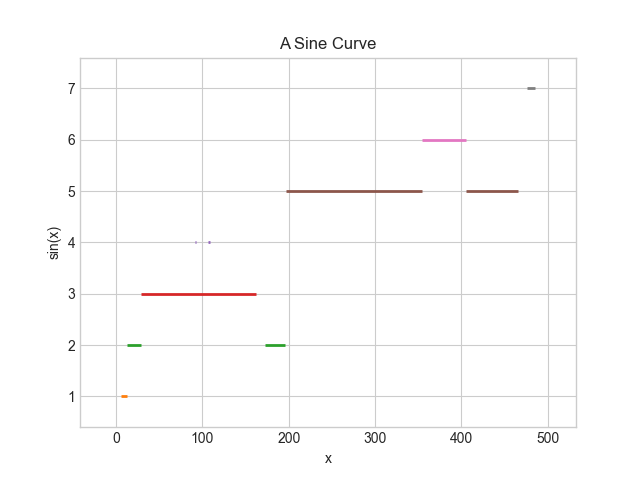
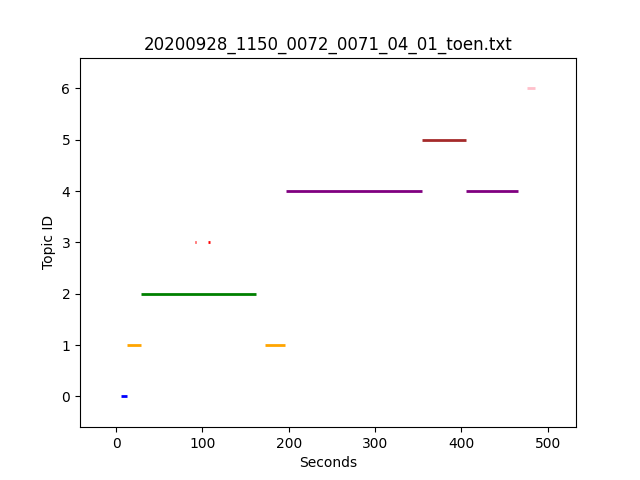
adding visualization script

diff --git a/analysing_topics/visualization_script.py b/analysing_topics/visualization_script.py
@@ -1,41 +1,36 @@
 #!/usr/bin/python3
 # This script visualize RTTM file with matplotlib
-# "rttm: <type> <file-id> <channel-id> <begin-time> <duration> <NA> <NA> <speaker> <conf>"
-# '<file-id> <start-time> <end-time> <speaker> <type>'
+# "rttm: <type> <reco-id> <channel-id> <begin-time> <duration> <NA> <NA> <speaker> <conf>"
+# '<reco-id> <start-time> <end-time> <speaker> <type>'
 
 import matplotlib
 matplotlib.use('Agg')
-import numpy as np
 from datetime import datetime
 from datetime import timedelta
 import matplotlib.pyplot as plt
+from collections import namedtuple
 
 def main():
-    rttm_filename = '/Users/ashisharora/Desktop/root/corpora/TDCorpus/topic_text.txt'
+    '<reco-id> <start-time> <end-time> <topic> <type>'
+    topic_text = '/Users/ashisharora/Desktop/root/corpora/TDCorpus/topic_text.txt'
+    text_file_handle = open(topic_text, 'r', encoding='utf8')
+    text_file_data = text_file_handle.read().strip().split("\n")
+    
     uttname = '20200925_1525_0087_0088_01_01_toen.txt'
     uttname = '20200928_1150_0072_0071_04_01_toen.txt'
-
-    '<file-id> <start-time> <end-time> <speaker> <type>'
-    with open(rttm_filename, 'r') as fh:
-        content = fh.readlines()
-
-    start_time_list = []
-    end_time_list = []
-    speaker_list = []
-    spkname_dict = {}
-    num_spk = 0
-    num_seg = 0
-    for line in content:
+    topic_dict = {}
+    Segment = namedtuple('Segment', 'reco topic topicid start end type')
+    segments = []
+    for line in text_file_data:
         line = line.strip('\n')
-        line_split = line.split()
-        if line_split[0] != uttname:
+        parts = line.split()
+        if parts[0] != uttname:
             continue
 
-        # uttname = line_split[0]
-        num_seg += 1
-        start_seconds_txt = line_split[1].strip().split('.')[0]
-        end_seconds_txt = line_split[2].strip().split('.')[0]
-        if ':' in line_split[1]:
+        # get start and end time in seconds
+        start_seconds_txt = parts[1].strip().split('.')[0]
+        end_seconds_txt = parts[2].strip().split('.')[0]
+        if ':' in parts[1]:
             start_yms = datetime.strptime(start_seconds_txt, '%M:%S')
             start_seconds=(start_yms-datetime(1900,1,1)).total_seconds()
             end_yms = datetime.strptime(end_seconds_txt, '%M:%S')
@@ -44,51 +39,43 @@ def main():
             start_seconds = timedelta(seconds=int(start_seconds_txt))
             end_seconds = timedelta(seconds=int(end_seconds_txt))
 
-        start_time = start_seconds
-        end_time = end_seconds
-        speaker = line_split[3]
-        start_time_list.append(start_time)
-        end_time_list.append(end_time)
-        if speaker not in spkname_dict:
-            num_spk += 1
-            spkname_dict[speaker] = num_spk
-        speaker_list.append(spkname_dict[speaker])
+        # get topic and topic id
+        topic = parts[3]
+        if topic not in topic_dict:
+            topic_dict[topic] = len(topic_dict)
 
-    # 00:06.503 00:11.384 hello p
-    # 00:11.634 06:36.084 meeting-fu p
-    # 01:16.376 01:45.281 transport s
-    # 06:38.965 06:43.727 operator p
-
-    from matplotlib import collections  as mc
-    c = ["#1f77b4", "#ff7f0e", "#2ca02c", "#d62728", "#9467bd", "#8c564b", "#e377c2", "#7f7f7f", "#bcbd22", "#17becf"]
-    seg_list = []
-    color_list = []
-    for i in range(num_seg):
-        # plt.plot(x, np.sin(x), '-g', label='sin(x)')
-        # plt.plot(x, np.cos(x), ':b', label='cos(x)')
-        print("speaker {}: {} start {} end".format(speaker_list[i], start_time_list[i], end_time_list[i]))
-        seg_list.append([(start_time_list[i], speaker_list[i]), (end_time_list[i], speaker_list[i])])
-        color_list.append(c[speaker_list[i] % 10])
-
-    lc = mc.LineCollection(seg_list, colors=color_list, linewidths=2)
-
+        # create segment
+        segments.append(Segment(
+                reco = parts[0],
+                topic = topic,
+                topicid = topic_dict[topic],
+                start = start_seconds,
+                end = end_seconds,
+                type = parts[4]
+            ))
+    
+    # plot the segments
     plt.style.use('seaborn-whitegrid')
     fig = plt.figure()
     ax = plt.axes()
-    ax.add_collection(lc)
+
+    c = ['blue', 'orange', 'green', 'red', 'purple', 'brown', 'pink', 'yellow', 'cyan', 'magenta']
+    for _, seg in enumerate(segments):
+        # print("Topic {}: {} start {} end".format(seg.topicid, seg.start, seg.end))
+        ax.hlines(y=seg.topicid, xmin=seg.start, xmax=seg.end, label=seg.topic, linewidth=2, color=c[seg.topicid% 10])
+    
     ax.autoscale()
     ax.margins(0.1)
-    # plt.xlim(-1, 410)
-    # plt.ylim(1, 4)
-    plt.title("A Sine Curve")
-    # my_xticks = ['1', '2', '3', '4']
-    # plt.yticks(x, my_xticks)
-    plt.xlabel("x")
-    plt.ylabel("sin(x)")
-    # plt.plot([], [], color="red", label="manual")
-    # plt.legend(bbox_to_anchor=(1, 1), loc="upper left")
-    # plt.show()
-    fig.savefig("tmp.png")
+    # Shrink current axis by 20%
+    box = ax.get_position()
+    ax.set_position([box.x0, box.y0, box.width * 0.8, box.height])
+    plt.title(str(uttname))
+    plt.xlabel('Seconds')
+    plt.ylabel('Topic ID')
+    # plt.legend(loc='upper left')
+    plt.legend(bbox_to_anchor=(1.05, 1), loc='upper left')
+    image_name = str(uttname)+'.png'
+    fig.savefig(image_name)
     return 0
 
 if __name__ == "__main__":
